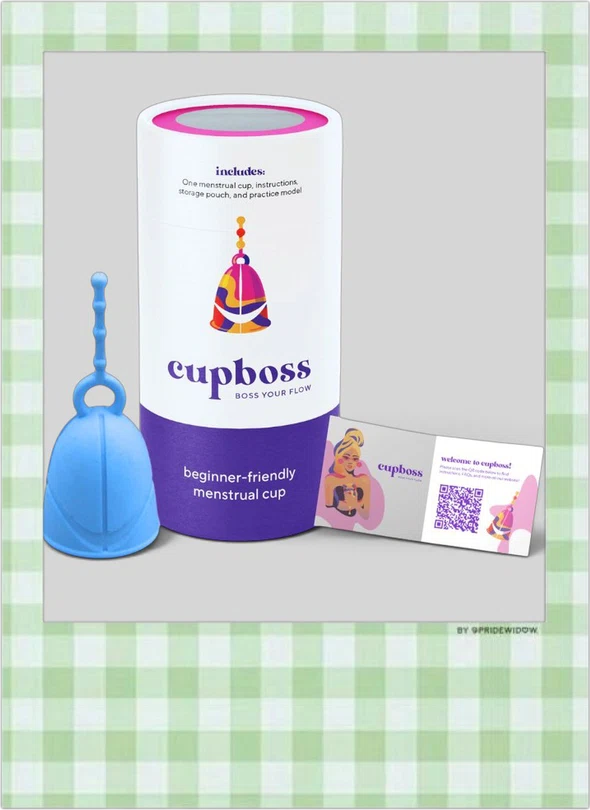
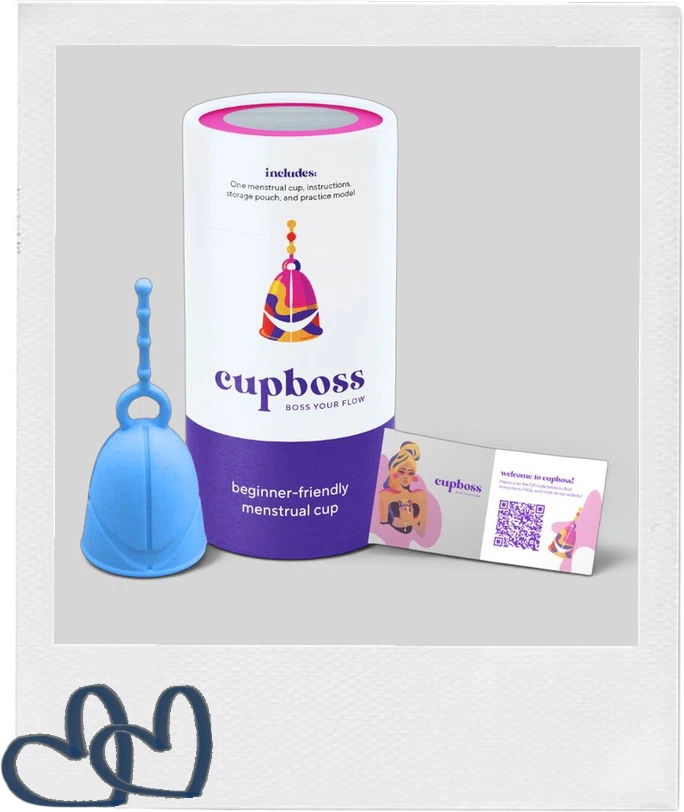
Board: gingham frame on Candy Dispenser, hearts polaroid on CupBoss

diff --git a/index.html b/index.html
@@ -93,15 +93,15 @@
       <span class="caption">Headset Habitat</span>
     </a>
 
-    <a class="item polaroid product" href="projects/candy-dispenser/" style="--x: 59%; --y: 55%; --w: 14%; --r: 2deg; --s: 0.8;">
+    <a class="item framed framed--plaid product" href="projects/candy-dispenser/" style="--x: 59%; --y: 54%; --w: 13%; --r: 2deg; --s: 0.8;">
       <span class="tape tape--top tape--yellow"></span>
-      <img src="assets/img/thumb-candy-dispenser.jpg" alt="Candy Dispenser: a pink and green translucent acrylic candy dispenser">
+      <img src="assets/img/frame-candy-dispenser.webp" width="590" height="810" alt="Candy Dispenser: a pink and green translucent acrylic candy dispenser">
       <span class="caption">Candy Dispenser</span>
     </a>
 
-    <a class="item framed framed--plaid product" href="projects/cupboss/" style="--x: 85.5%; --y: 21%; --w: 13%; --r: 1.5deg; --s: 0.824;">
+    <a class="item framed framed--hearts product" href="projects/cupboss/" style="--x: 85.5%; --y: 21%; --w: 13%; --r: 1.5deg; --s: 0.824;">
       <span class="pin pin--top pin--yellow"></span>
-      <img src="assets/img/frame-cupboss.webp" width="590" height="810" alt="CupBoss: a blue menstrual cup next to its purple and white CupBoss packaging">
+      <img src="assets/img/frame-cupboss.webp" width="684" height="812" alt="CupBoss: a blue menstrual cup next to its purple and white CupBoss packaging">
       <span class="caption">CupBoss</span>
     </a>
 

diff --git a/css/board.css b/css/board.css
@@ -542,13 +542,14 @@ a.item.admit:hover { box-shadow: none; }
 
 .polaroid.product:nth-of-type(odd) img { aspect-ratio: 1 / 1.08; }
 
-/* product photos in decorated frames (stars, film + clip, green gingham) */
+/* product photos in decorated frames (stars, film + clip, gingham, hearts) */
 .framed img { display: block; width: 100%; height: auto; filter: drop-shadow(0 1px 1px rgba(40, 22, 8, .35)) drop-shadow(0 6px 8px rgba(40, 22, 8, .28)); }
 .framed .caption { position: absolute; left: 0; right: 0; text-align: center; }
 .framed--star .caption { bottom: 6%; left: 18%; }
 .framed--plaid .caption { bottom: 7%; padding: .05em .4em; left: 50%; right: auto; transform: translateX(-50%); background: #fdfdfb; box-shadow: 0 1px 2px rgba(0,0,0,.15); }
 .framed--film .caption { bottom: -.7em; left: 50%; right: auto; padding: .1em .5em; background: #fdfdfb; box-shadow: var(--shadow); transform: translateX(-50%) rotate(-3deg); }
-.framed .pin--top { z-index: 2; }
+.framed--hearts .caption { bottom: 7%; left: 22%; }
+.framed .pin--top, .framed .tape--top { z-index: 2; }
 
 .print { padding: .75em; }
 .print img { aspect-ratio: 1 / 1; }
